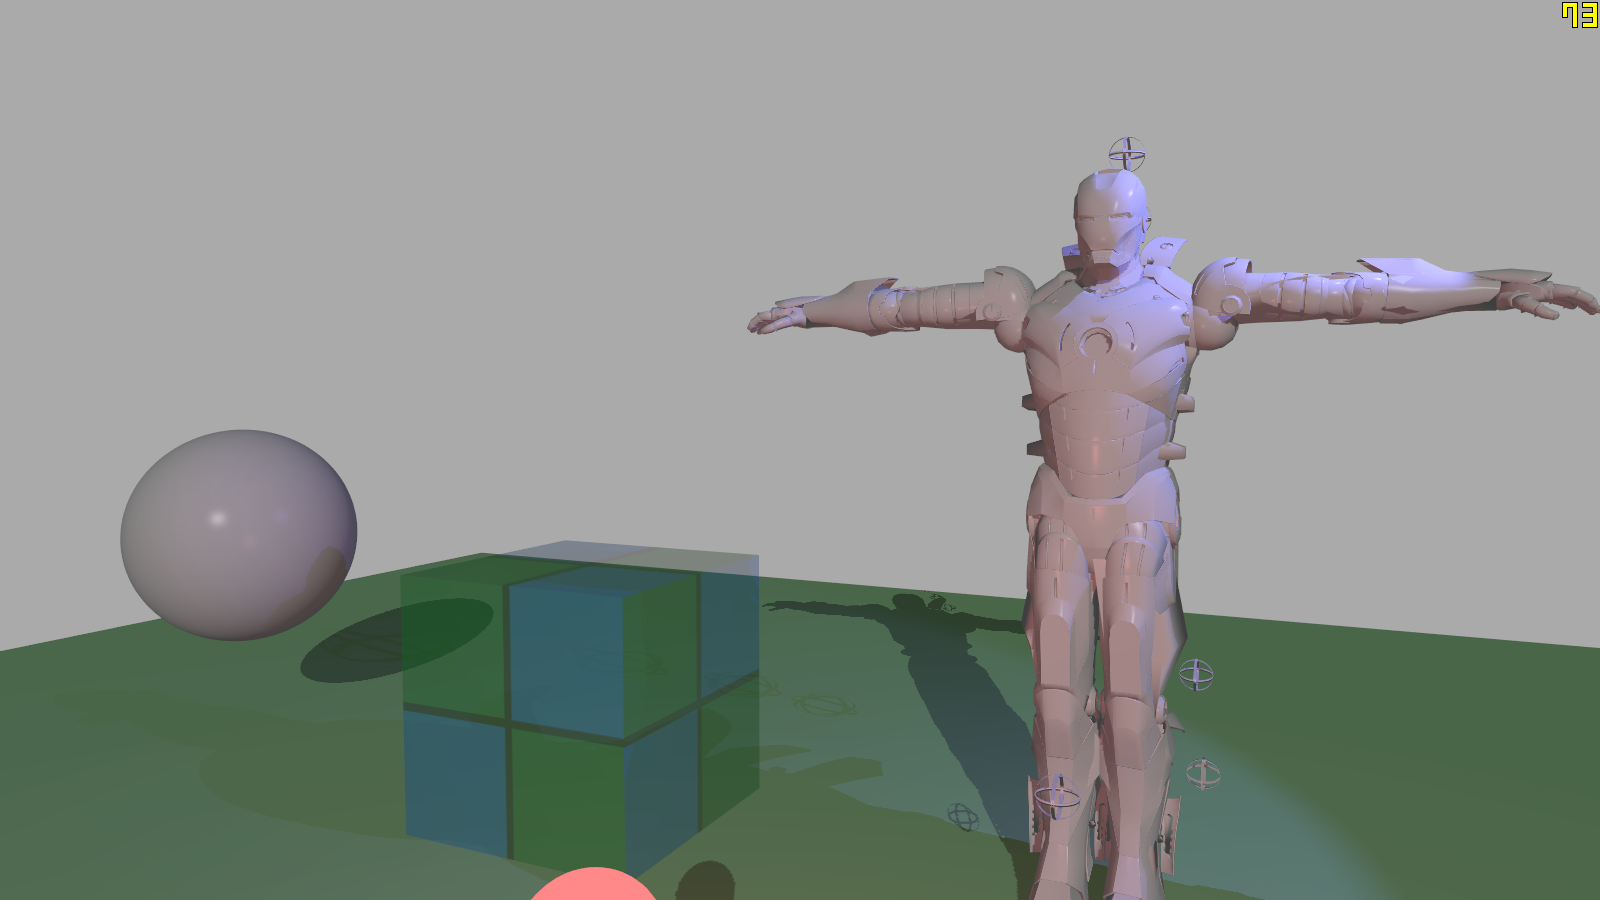
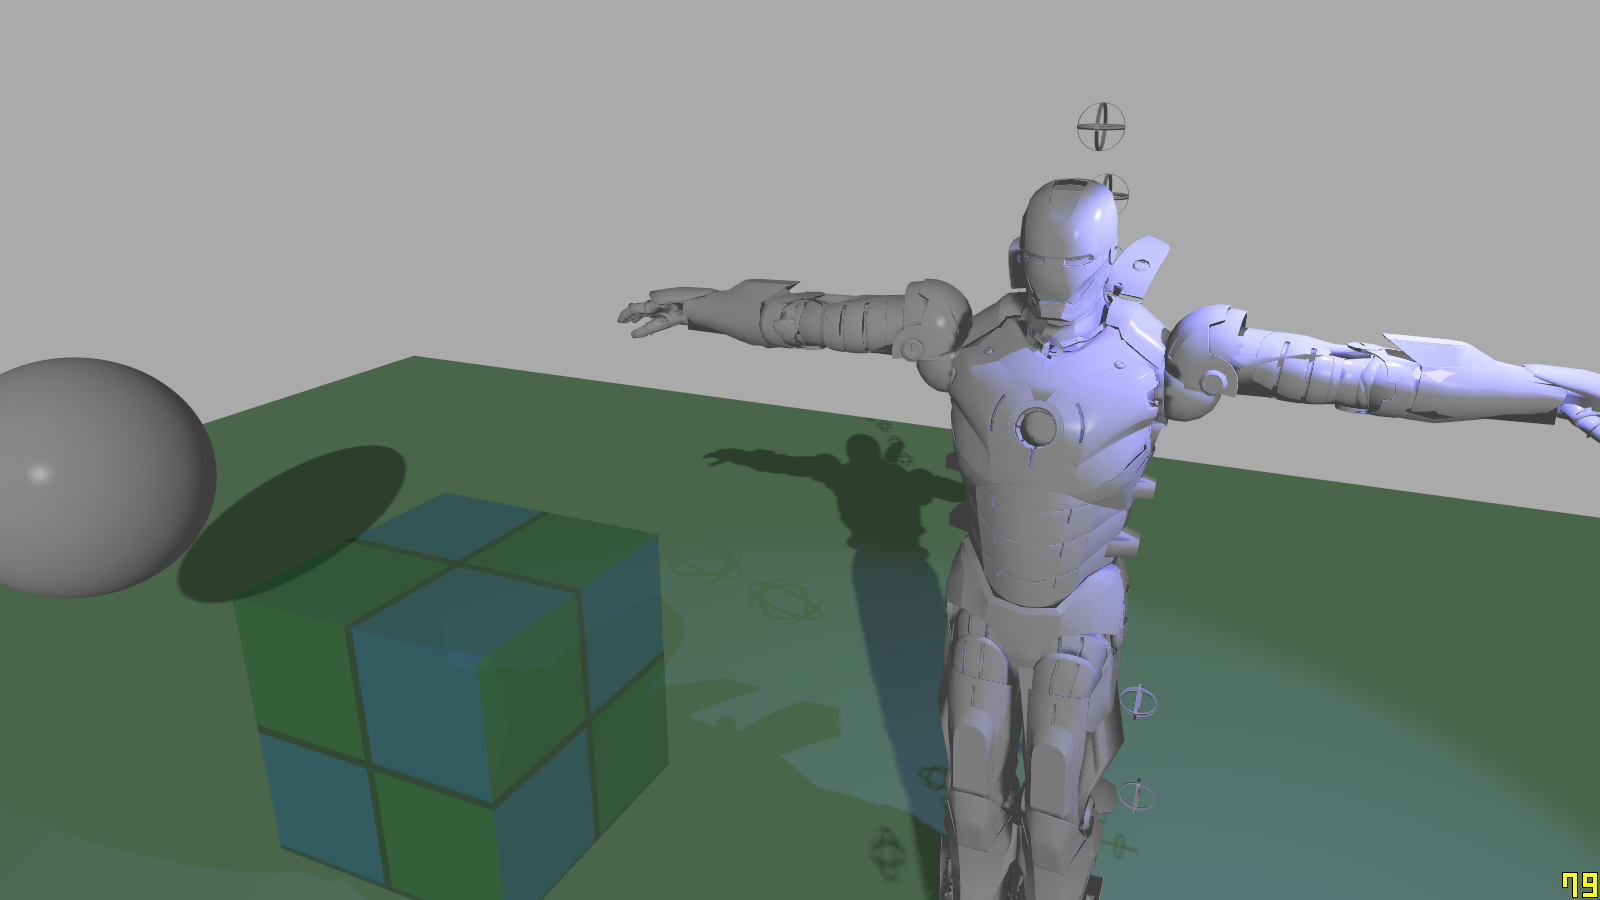
percentage closer filtering with rotated poisson kernels

diff --git a/src/ngn/renderer.cpp b/src/ngn/renderer.cpp
@@ -44,6 +44,10 @@ namespace ngn {
         ShaderProgram::UniformGUID ngn_light_shadowMapGUID;
         ShaderProgram::UniformGUID ngn_light_shadowBiasGUID;
         ShaderProgram::UniformGUID ngn_light_shadowNormalBiasGUID;
+        ShaderProgram::UniformGUID ngn_light_shadowPCFSamples;
+        ShaderProgram::UniformGUID ngn_light_shadowPCFEarlyBailSamples;
+        ShaderProgram::UniformGUID ngn_light_shadowMapSize;
+        ShaderProgram::UniformGUID ngn_light_shadowPCFRadius;
         ShaderProgram::UniformGUID ngn_light_toLightSpaceGUID;
     }
 
@@ -84,6 +88,11 @@ struct ngn_LightParameters {
     float shadowBias;
     float shadowNormalBias;
     mat4 toLightSpace;
+
+    int shadowPCFSamples;
+    int shadowPCFEarlyBailSamples;
+    vec2 shadowMapSize;
+    float shadowPCFRadius;
 };
 layout(location = 7) uniform ngn_LightParameters ngn_light;
 
@@ -110,6 +119,11 @@ layout(location = 7) uniform ngn_LightParameters ngn_light;
         UniformGUIDs::ngn_light_shadowBiasGUID = ShaderProgram::getUniformGUID("ngn_light.shadowBias");
         UniformGUIDs::ngn_light_shadowNormalBiasGUID = ShaderProgram::getUniformGUID("ngn_light.shadowNormalBias");
         UniformGUIDs::ngn_light_toLightSpaceGUID = ShaderProgram::getUniformGUID("ngn_light.toLightSpace");
+
+        UniformGUIDs::ngn_light_shadowPCFSamples = ShaderProgram::getUniformGUID("ngn_light.shadowPCFSamples");
+        UniformGUIDs::ngn_light_shadowPCFEarlyBailSamples = ShaderProgram::getUniformGUID("ngn_light.shadowPCFEarlyBailSamples");
+        UniformGUIDs::ngn_light_shadowMapSize = ShaderProgram::getUniformGUID("ngn_light.shadowMapSize");
+        UniformGUIDs::ngn_light_shadowPCFRadius = ShaderProgram::getUniformGUID("ngn_light.shadowPCFRadius");
 
         Renderer::staticInitialized = true;
     }
@@ -354,6 +368,11 @@ layout(location = 7) uniform ngn_LightParameters ngn_light;
                                             entry.perEntryUniforms.setInteger(UniformGUIDs::ngn_light_shadowedGUID, 1);
                                             entry.perEntryUniforms.setFloat(UniformGUIDs::ngn_light_shadowBiasGUID, shadow->getBias());
                                             entry.perEntryUniforms.setFloat(UniformGUIDs::ngn_light_shadowNormalBiasGUID, shadow->getNormalBias());
+                                            if(shadow->getPCFSamples() > 0) {
+                                                entry.perEntryUniforms.setInteger(UniformGUIDs::ngn_light_shadowPCFSamples, shadow->getPCFSamples());
+                                                entry.perEntryUniforms.setInteger(UniformGUIDs::ngn_light_shadowPCFEarlyBailSamples, shadow->getPCFEarlyBailSamples());
+                                                entry.perEntryUniforms.setFloat(UniformGUIDs::ngn_light_shadowPCFRadius, shadow->getPCFRadius());
+                                            }
                                             /* This is some bullshit
                                             The shadow map is bound to a specific unit (this engine is going to assume hardware with at least 16)
                                             because I rely heavily on uniform dynamic branching instead of different shader permutations. As a result
@@ -367,7 +386,9 @@ layout(location = 7) uniform ngn_LightParameters ngn_light;
                                             If I don't remove these samplers on a case-by-case basis, I have to have a depth texture bound at all times,
                                             so as an easy fix I dedicated the unit 15 to shadow maps!
                                             */
-                                            entry.perEntryUniforms.setTexture(UniformGUIDs::ngn_light_shadowMapGUID, &shadow->mShadowMapTexture, 15);
+                                            Texture* shadowMap = &shadow->mShadowMapTexture;
+                                            entry.perEntryUniforms.setTexture(UniformGUIDs::ngn_light_shadowMapGUID, shadowMap, 15);
+                                            entry.perEntryUniforms.setVector2(UniformGUIDs::ngn_light_shadowMapSize, glm::vec2(shadowMap->getWidth(), shadowMap->getHeight()));
                                             entry.perEntryUniforms.setMatrix4(UniformGUIDs::ngn_light_toLightSpaceGUID, toLightSpace);
                                         } else {
                                             entry.perEntryUniforms.setInteger(UniformGUIDs::ngn_light_shadowedGUID, 0);

diff --git a/src/main.cpp b/src/main.cpp
@@ -131,18 +131,18 @@ int main(int argc, char** args) {
     cube.setPosition(glm::vec3(0.0f, 5.0f, 0.0f));
     scene.add(cube);
 
-    ngn::Light light;
-    light.addLightData(ngn::LightData::LightType::DIRECTIONAL);
-    light.getLightData()->setColor(glm::vec3(0.2f, 0.2f, 0.2f));
-    light.getLightData()->addShadow(4096, 4096);
-    light.lookAt(glm::vec3(-0.5f, -0.5f, -1.0f));
-    //light.getLightData()->getShadow()->getCamera()->addDebugMesh();
-    scene.add(light);
+    ngn::Light dirLight;
+    dirLight.addLightData(ngn::LightData::LightType::DIRECTIONAL);
+    dirLight.getLightData()->setColor(glm::vec3(0.2f, 0.2f, 0.2f));
+    dirLight.getLightData()->addShadow(4096, 4096);
+    dirLight.lookAt(glm::vec3(-0.5f, -0.5f, -1.0f));
+    //dirLight.getLightData()->getShadow()->getCamera()->addDebugMesh();
+    scene.add(dirLight);
 
     ngn::Light spotLight;
     spotLight.addLightData(ngn::LightData::LightType::SPOT);
     spotLight.getLightData()->setColor(200.0f * glm::vec3(0.25f, 0.25f, 1.0f));
-    spotLight.lookAtPos(glm::vec3(30.0f, 30.0f, 0.0f), glm::vec3(0.0f, 0.0f, 0.0f));
+    spotLight.lookAtPos(glm::vec3(28.0f, 28.0f, 0.0f), ironman.getPosition());
     spotLight.getLightData()->addShadow(2048, 2048);
     //spotLight.getLightData()->getShadow()->getCamera()->lookAtPos(glm::vec3(30.0f, 30.0f, 0.0f), glm::vec3(0.0f, 0.0f, 0.0f));
     //spotlight.getLightData()->getShadow()->getCamera()->addDebugMesh();
@@ -159,7 +159,7 @@ int main(int argc, char** args) {
     pointLight.getMaterial()->setVector4("color", glm::vec4(0.0f, 0.0f, 0.0f, 1.0f));
     pointLight.getMaterial()->setVector3("emissive", col);
     pointLight.getMaterial()->removePass(ngn::Renderer::LIGHT_PASS);
-    scene.add(pointLight);
+    //scene.add(pointLight);
 
     camera.setPosition(glm::vec3(glm::vec3(0.0f, 5.0f, 50.0f)));
 
@@ -183,7 +183,7 @@ int main(int argc, char** args) {
         moveCamera(camera, dt);
 
         renderer.render(scene, camera, !inputState.key[SDL_SCANCODE_M], !inputState.key[SDL_SCANCODE_N]);
-        //renderer.render(scene, *light.getLightData()->getShadow()->getCamera(), !inputState.key[SDL_SCANCODE_M], !inputState.key[SDL_SCANCODE_N]);
+        //renderer.render(scene, *dirLight.getLightData()->getShadow()->getCamera(), !inputState.key[SDL_SCANCODE_M], !inputState.key[SDL_SCANCODE_N]);
 
         window.updateAndSwap();
         //quit = true;

diff --git a/src/ngn/lightdata.hpp b/src/ngn/lightdata.hpp
@@ -30,7 +30,8 @@ namespace ngn {
             float mShadowBias;
             float mNormalShadowBias;
             bool mAutoCam;
-
+            int mPCFSamples, mPCFEarlyBailSamples;
+            float mPCFRadius;
 
         public:
             Shadow(LightData* parent, int shadowMapWidth, int shadowMapHeight, PixelFormat format = GL_DEPTH_COMPONENT24);
@@ -44,6 +45,18 @@ namespace ngn {
 
             void setNormalBias(float bias) {mNormalShadowBias = bias;}
             float getNormalBias() const {return mNormalShadowBias;}
+
+            void setPCFSamples(int samples, int earlyBailSamples = -1) {
+                if(earlyBailSamples < 0) earlyBailSamples = samples > 8 ? 4 : 0;
+                mPCFSamples = samples;
+                mPCFEarlyBailSamples = earlyBailSamples;
+            }
+            int getPCFSamples() const {return mPCFSamples;}
+            int getPCFEarlyBailSamples() const {return mPCFEarlyBailSamples;}
+
+            // in shadow map texels
+            void setPCFRadius(float radius) {mPCFRadius = radius;}
+            float getPCFRadius() const {return mPCFRadius;}
 
             void updateCamera(const Camera& viewCamera, const AABoundingBox& sceneBoundingBox);
             Camera* getCamera() {return mCamera;}

diff --git a/src/ngn/lightdata.cpp b/src/ngn/lightdata.cpp
@@ -97,7 +97,8 @@ namespace ngn {
     }
 
     LightData::Shadow::Shadow(LightData* parent, int shadowMapWidth, int shadowMapHeight, PixelFormat format) :
-            mParent(parent), mCamera(nullptr), mShadowBias(0.0002f), mNormalShadowBias(1.0f), mAutoCam(true) {
+            mParent(parent), mCamera(nullptr), mShadowBias(0.0002f), mNormalShadowBias(1.0f), mAutoCam(true),
+            mPCFSamples(16), mPCFEarlyBailSamples(4), mPCFRadius(2.5f) {
         mShadowMapTexture.setStorage(format, shadowMapWidth, shadowMapHeight);
         LOG_DEBUG("shadow map texture object: %d", mShadowMapTexture.getTextureObject());
         mShadowMapTexture.setCompareFunc();
